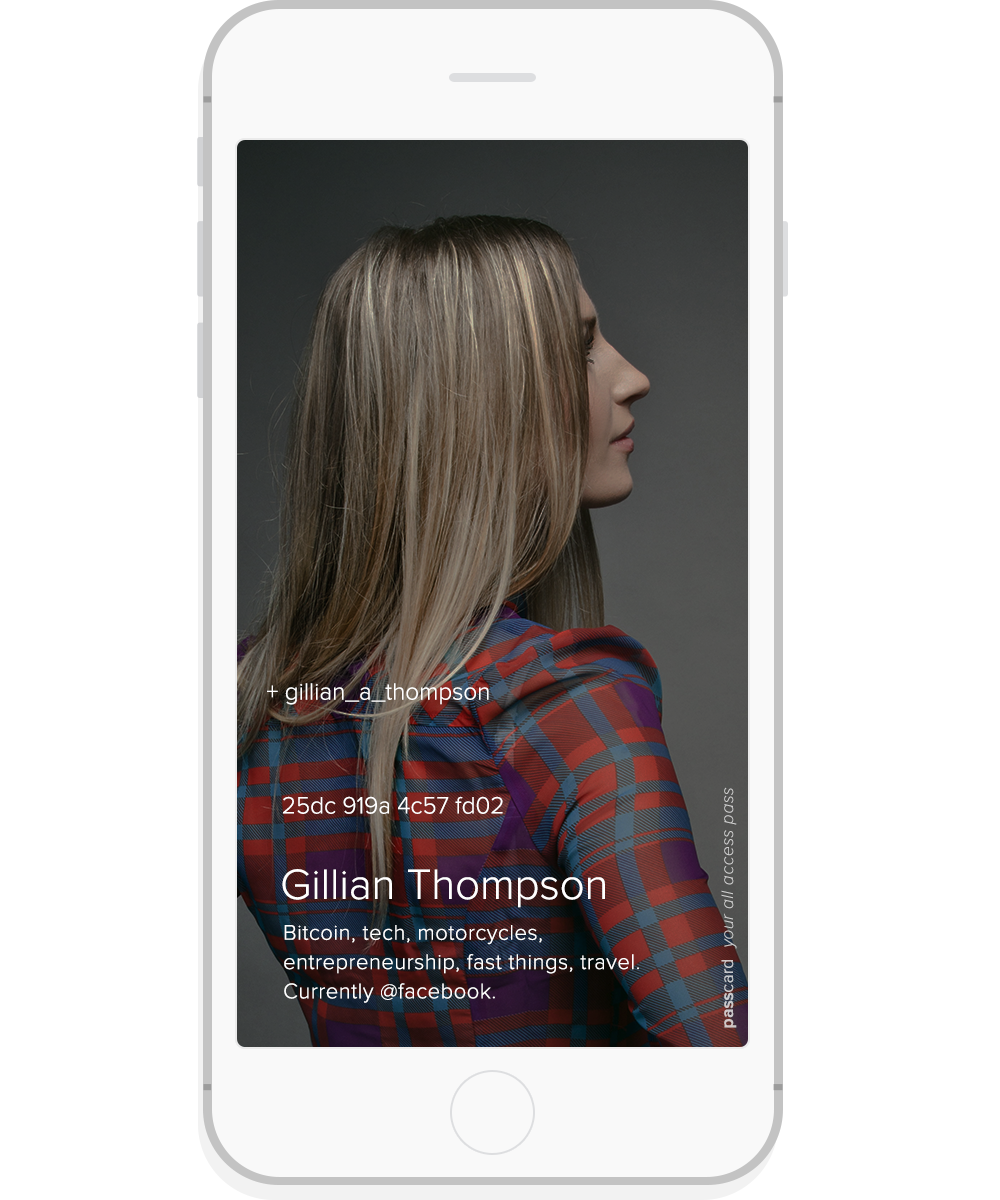
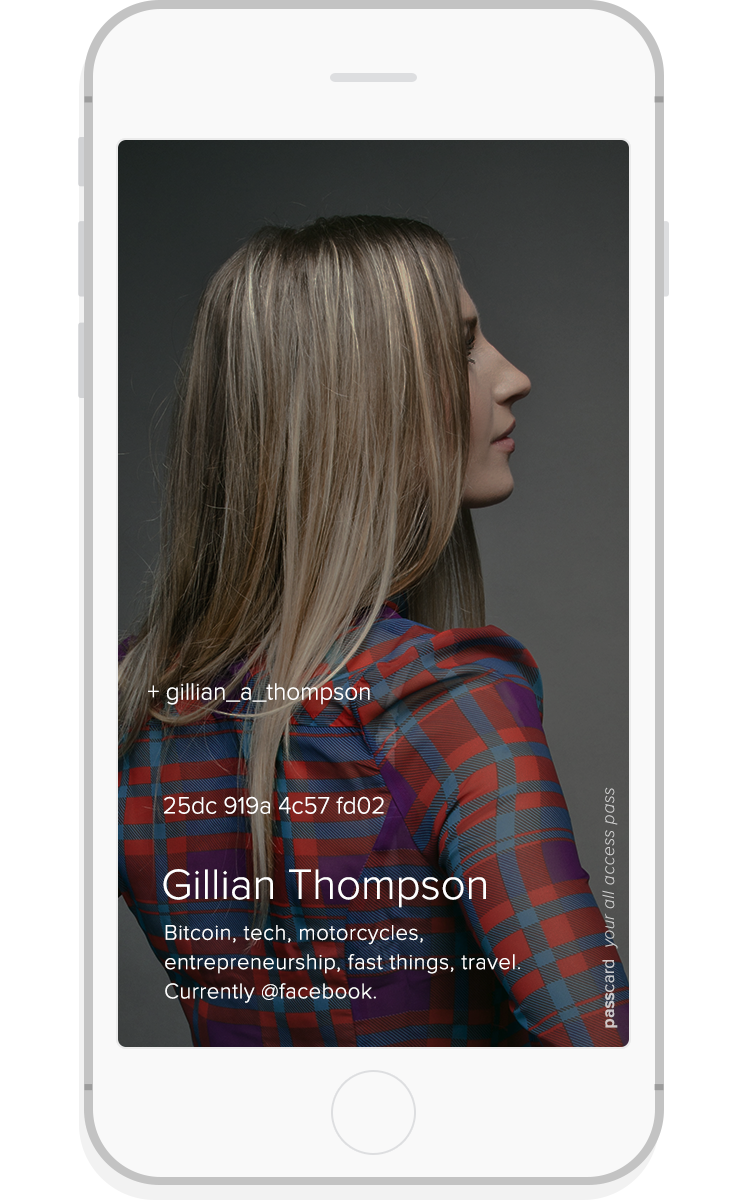
adjusting hero image size for testing on mobile

diff --git a/dist/styles/main.40e0ac4c.css b/dist/styles/main.40e0ac4c.css
@@ -1,0 +1,5 @@
+/*!
+ * Bootstrap v3.3.2 (http://getbootstrap.com)
+ * Copyright 2011-2015 Twitter, Inc.
+ * Licensed under MIT (https://github.com/twbs/bootstrap/blob/master/LICENSE)
+ *//*! normalize.css v3.0.2 | MIT License | git.io/normalize */.group,.group:after{display:block}.lead,h1,h2,h3,h4,h5{font-weight:100}body,h1,h2,h3,h4,h5{font-family:proxima-nova,sans-serif}.site-wrapper,.st-container{min-height:100%}::selection{background:rgba(255,255,255,.15);color:#fff}::-moz-selection{background:rgba(255,255,255,.15);color:#fff}.group:after{visibility:hidden;font-size:0;content:" ";clear:both;height:0}* html .group{height:1%}.docs-container{text-align:left}.markdown-section img{max-width:100%}a,a:focus,a:hover{color:rgba(255,255,255,1)}.lead{font-size:15px}h2{font-size:24px;line-height:34px;margin-top:20px;margin-bottom:20px}.color-blue,.color-ltblue{color:rgba(0,102,255,1)}.color-drkblue{color:rgba(1,68,145,1)}.btn-default{text-shadow:none;border:none;border-radius:3px;transition:all 25ms linear}.btn-lg{padding:12px 33px 10px;font-size:10px;font-weight:400;text-transform:uppercase;letter-spacing:.5px}.btn-default:active,.btn-default:focus,.btn-default:hover{border:none;background-color:rgba(255,255,255,.5);outline:0!important;box-shadow:none}.btn-default.color-blue:active,.btn-default.color-blue:focus,.btn-default.color-blue:hover{color:rgba(0,102,255,1)}.btn-default.color-drkblue:active,.btn-default.color-drkblue:focus,.btn-default.color-drkblue:hover{color:rgba(1,68,145,1)}.btn-transparent{padding:10px;font-size:9px;background-color:transparent;color:rgba(138,197,255,1)}.btn-transparent:active,.btn-transparent:focus,.btn-transparent:hover{border:none;background-color:transparent;color:rgba(255,255,255,1);outline:0!important;box-shadow:none}.btn-transparent,.btn-transparent:active,.btn-transparent:focus,.btn-transparent:hover{font-weight:300}.lead-margin{margin-bottom:12px}body,html{height:auto!important}body{color:#fff;text-align:center;font-weight:100!important}.site-wrapper{display:table;width:100%;height:100%;box-shadow:inset 0 0 100px rgba(0,0,0,.5)}.site-wrapper-inner{display:table-cell;vertical-align:top}.cover-container{margin-right:auto;margin-left:auto;height:100%}.inner{padding:20px}.githublink{position:absolute;top:15px;right:15px;border:0;width:18px;height:18px;fill:rgba(255,255,255,1)}.githublink:hover{fill:rgba(255,255,255,.5)}.no-csstransforms3d .st-pusher,.no-js .st-pusher{padding-left:0}.st-menu ul{margin-bottom:10px}.st-menu{width:256px;text-align:left;background:#1d1f20;background:linear-gradient(to bottom,#1d1f20 0,#404348 100%);filter:progid:DXImageTransform.Microsoft.gradient(startColorstr='#1d1f20', endColorstr='#404348', GradientType=0)}.st-menu ul li a:hover,.st-menu ul li:first-child a:focus{color:rgba(255,255,255,1);text-decoration:none;background-color:rgba(255,255,255,.1);transition:none}.st-menu ul li a,.st-menu ul li:first-child a{box-shadow:none;color:#fff;display:block;padding:10px 20px;text-transform:none;font-weight:200;letter-spacing:0;font-size:100%/1.4em}.st-menu h2{color:rgba(255,255,255,.75);font-size:17px;margin:10px 0}.st-effect-3.st-menu-open .st-pusher{-webkit-transform:translate3d(256px,0,0);transform:translate3d(256px,0,0)}.menu-section-list{padding:0;margin:10px 0!important;list-style:none}.menu-section{margin:25px 0}.menu a{color:#fff}.menu-header{border-bottom:1px solid #2a2d2f;padding:20px 0 20px 20px;background-size:32px}.menu-section-title{text-transform:uppercase;color:#85888d;font-weight:200;font-size:12px;letter-spacing:1px;padding:0 20px;margin:0}.menu-header-title{margin:0 0 0 10px}.twitter-hashtag-button{margin-left:20px}.jumbotron{margin-top:30px!important;padding:40px 25px;border-radius:6px;background-color:#F2F2F0;margin-bottom:300px!important;box-shadow:rgba(0,0,0,.1)0 0 25px}.jumbotron .lead{color:#343434;font-weight:300;letter-spacing:0}h1.passregistrar{color:#343434;font-weight:300!important;letter-spacing:0;font-size:24px}h2.feature a{font-weight:200;letter-spacing:0;font-size:20px;text-decoration:none}h3.feature a{font-weight:100;letter-spacing:0;font-size:14px;text-decoration:none}a.btn.btn-primary.btn-lg.btn-registrar{font-weight:500!important;display:block;margin:8px;background-color:#2c96ff;border-color:transparent}a.btn.btn-primary.btn-lg.btn-registrar:hover{background-color:#2378cc;border-color:transparent}.navbar-inverse .navbar-toggle,.navbar-inverse .navbar-toggle:active,.navbar-inverse .navbar-toggle:focus,.navbar-inverse .navbar-toggle:hover{float:left;padding:9px 11px;border-color:transparent;margin:7px 2px;background:0 0}.navbar-toggle .icon-bar{display:block;width:12px;height:1px;border-radius:1px;background-color:#fff}.starter-template{padding:40px 15px;text-align:center}.navbar-brand{font-size:16px;font-weight:300;padding-bottom:5px;margin-left:-53px}.component,.inverted{padding-top:60px;padding-bottom:40px}.col-centered{float:none;margin:15px auto}.navbar-inverse .navbar-nav>li>a{padding-top:16px;font-size:13px;color:rgba(255,255,255,1)}.navbar-inverse{background:0 0;border-color:transparent}.navbar-inverse .navbar-brand{color:rgba(255,255,255,1);float:none}.navbar-toggle .icon-bar+.icon-bar{margin-top:3px}.navbar-inverse .navbar-brand:focus,.navbar-inverse .navbar-brand:hover,.navbar-inverse .navbar-nav>li>a:focus,.navbar-inverse .navbar-nav>li>a:hover{color:rgba(255,255,255,.5)}.cover h1,.cover p{font-weight:100;margin-top:0}.masthead-brand{margin-top:10px;margin-bottom:10px}.masthead-nav>li{display:inline-block}.masthead-nav>li+li{margin-left:20px}.masthead-nav>li>a{padding-right:0;padding-left:0;font-size:16px;color:#fff;color:rgba(255,255,255,.75);border-bottom:2px solid transparent}.masthead-nav>li>a:focus,.masthead-nav>li>a:hover{background-color:transparent;border-bottom-color:#a9a9a9;border-bottom-color:rgba(255,255,255,.25)}.masthead-nav>.active>a,.masthead-nav>.active>a:focus,.masthead-nav>.active>a:hover{color:#fff;border-bottom-color:#fff}.conatainer-fluid.col-centered ul{list-style:none}.navbar{margin-bottom:0}.st-content{background:0 0}.featurette>img.feat-img{padding-left:10%;padding-right:10%}.feat-lft{background-color:rgba(38,125,255,1)}.feat-rgt{background-color:rgba(0,87,217,1)}.inverted{background-color:rgba(33,33,33,1)}.component{background-color:rgba(0,102,255,1)}h2.content{font-weight:100;letter-spacing:0;font-size:24px;margin-bottom:60px}.cover-heading{font-size:22px;margin-bottom:28px}.bs-docs-featurette{padding-top:40px;padding-bottom:40px;font-size:16px;line-height:1.5;text-align:center;background-color:rgba(38,125,255,1)}.bs-docs-featurette-title{margin-bottom:5px;font-size:30px}.feature-panel{margin:40px 0}.feature-panel>img{margin:0;padding:0 18%}.feature-panel>h3{margin-bottom:10px;display:block;font-size:1.17em}.works{margin-top:30px;margin-bottom:30px;padding:0 12%}.inner.cover{padding-bottom:0;padding-top:90px;margin-bottom:0;margin-top:-90px;background-color:rgba(0,102,255,1)}.solid{background-color:#3a73cd;color:#fff}.feature-action{background-color:rgba(1,68,145,1)}.action-title{margin-top:120px}.btn-action{margin-top:50px;margin-bottom:180px}img.arrow-down{width:12px;padding-bottom:13px}.btn-works img{margin-top:-21px}img.arrow-learn-more{padding-left:48%;padding-right:48%}.arrow-learn-more{margin-top:-18px!important;margin-bottom:25px!important}.img-re-constraint{max-width:90%}.wrap-mob-featdecentralized,.wrap-mob-featpassmini,.wrap-mob-hero{max-width:400px}.wrap-mob-hero{margin-bottom:50px;margin-left:auto;margin-right:auto}.mastfoot{position:relative;color:rgba(255,255,255,.5);font-size:12px;height:100px;width:100%;background-color:#222}@media (min-width:768px){.masthead-brand{float:left}.masthead-nav{float:right}.jumbotron{width:404px;margin-top:100px!important}.masthead{position:fixed;top:0}.mastfoot{position:relative}.cover-container,.mastfoot,.masthead{width:100%}.navbar-inverse .navbar-brand{float:left}.navbar-text{float:left;margin:18px 35px 15px 0}.navbar-inverse .navbar-toggle,.navbar-inverse .navbar-toggle:active,.navbar-inverse .navbar-toggle:focus,.navbar-inverse .navbar-toggle:hover{float:left;display:block;padding:9px 11px;border-color:transparent;margin:20px 10px;background:0 0}.container-fluid>.navbar-collapse,.container-fluid>.navbar-header,.container>.navbar-collapse,.container>.navbar-header{margin-left:-15px;margin-right:20px}.col-centered{margin:10px auto}.cover{padding:30px 20px 100px;margin-top:0;margin-bottom:0}.lead{margin-bottom:50px}}@media (min-width:992px){.cover-heading{font-size:2.5em}.mastfoot{position:relative}}.ng-cloak,[ng-cloak],[ng\:cloak]{display:none!important}

diff --git a/dist/index.html b/dist/index.html
@@ -1,4 +1,4 @@
-<!doctype html> <html class="no-js"> <head> <base href="/"> <meta charset="utf-8"> <meta http-equiv="X-UA-Compatible" content="IE=edge,chrome=1"> <meta name="description" content="Passcard login id identity"> <meta name="viewport" content="width=device-width,initial-scale=1,minimal-ui"> <title>Passcard</title> <!-- Apple Device Icons --> <link rel="apple-touch-icon" sizes="29x29" href="/images/passcard-apple-touch-29.png"> <link rel="apple-touch-icon" sizes="40x40" href="/images/passcard-apple-touch-40.png"> <link rel="apple-touch-icon" sizes="58x58" href="/images/passcard-apple-touch-58.png"> <link rel="apple-touch-icon" sizes="60x60" href="/images/passcard-apple-touch-60.png"> <link rel="apple-touch-icon" sizes="76x76" href="/images/passcard-apple-touch-76.png"> <link rel="apple-touch-icon" sizes="80x80" href="/images/passcard-apple-touch-80.png"> <link rel="apple-touch-icon" sizes="120x120" href="/images/passcard-apple-touch-120.png"> <link rel="apple-touch-icon" sizes="152x152" href="/images/passcard-apple-touch-152.png"> <link rel="shortcut icon" href="/favicon.ico?v=2"> <!-- Place favicon.ico and apple-touch-icon.png in the root directory --> <link rel="stylesheet" href="styles/vendor.a4bfe288.css"> <link rel="stylesheet" href="styles/main.a8818eb7.css">  <body ng-app="digitalpassportApp" ng-cloak> <!--[if lt IE 7]>
+<!doctype html> <html class="no-js"> <head> <base href="/"> <meta charset="utf-8"> <meta http-equiv="X-UA-Compatible" content="IE=edge,chrome=1"> <meta name="description" content="Passcard login id identity"> <meta name="viewport" content="width=device-width,initial-scale=1,minimal-ui"> <title>Passcard</title> <!-- Apple Device Icons --> <link rel="apple-touch-icon" sizes="29x29" href="/images/passcard-apple-touch-29.png"> <link rel="apple-touch-icon" sizes="40x40" href="/images/passcard-apple-touch-40.png"> <link rel="apple-touch-icon" sizes="58x58" href="/images/passcard-apple-touch-58.png"> <link rel="apple-touch-icon" sizes="60x60" href="/images/passcard-apple-touch-60.png"> <link rel="apple-touch-icon" sizes="76x76" href="/images/passcard-apple-touch-76.png"> <link rel="apple-touch-icon" sizes="80x80" href="/images/passcard-apple-touch-80.png"> <link rel="apple-touch-icon" sizes="120x120" href="/images/passcard-apple-touch-120.png"> <link rel="apple-touch-icon" sizes="152x152" href="/images/passcard-apple-touch-152.png"> <link rel="shortcut icon" href="/favicon.ico?v=2"> <!-- Place favicon.ico and apple-touch-icon.png in the root directory --> <link rel="stylesheet" href="styles/vendor.a4bfe288.css"> <link rel="stylesheet" href="styles/main.40e0ac4c.css">  <body ng-app="digitalpassportApp" ng-cloak> <!--[if lt IE 7]>
       <p class="browsehappy">You are using an <strong>outdated</strong> browser. Please <a href="http://browsehappy.com/">upgrade your browser</a> to improve your experience.</p>
     <![endif]--> <div id="st-container" class="st-container"> <div class="cover-container"> <!-- Sidebar-transition "Push effect 3" is under the push wrapper --> <div class="st-pusher"> <!-- Sidebar --> <nav id="menu3" class="st-menu st-effect-3 menu slideout-menu" ng-controller="NavCtrl"> <a href="/"> <header class="menu-header"> <i class="fa fa-connectdevelop"></i><span class="menu-header-title">Home</span> </header> </a> <section class="menu-section"> <h3 class="menu-section-title">Consumers</h3> <ul class="menu-section-list"> <li> <a href="/registrars">Choose a registrar</a> </li> <li> <a href="/#learnmore" ng-click="scroll()">Learn more</a> </li> </ul> </section> <section class="menu-section"> <h3 class="menu-section-title">Docs</h3> <ul class="menu-section-list"> <li><a href="/docs/Home">Developer Overview</a></li> <li><a href="/docs/Protocol-Design">Protocol Design</a></li> <li><a href="/docs/FAQ">FAQ</a></li> <li><a href="https://github.com/openname/specifications/issues" target="_blank">Make a suggestion</a></li> </ul> </section> <section class="menu-section"> <ul class="menu-section-list"> <a href="https://twitter.com/intent/tweet?button_hashtag=passcard&text=Verify%20your%20identity.%20Get%20your%20passcard" class="twitter-hashtag-button" data-size="large" data-url="http://passcard.info">Tweet #passcard</a> <script>!function(d,s,id){var js,fjs=d.getElementsByTagName(s)[0],p=/^http:/.test(d.location)?'http':'https';if(!d.getElementById(id)){js=d.createElement(s);js.id=id;js.src=p+'://platform.twitter.com/widgets.js';fjs.parentNode.insertBefore(js,fjs);}}(document, 'script', 'twitter-wjs');</script> </ul> </section> </nav> <!-- / Sidebar --> <div class="st-content"><!--  ...  This is the wrapper for the content  ...  --> <div class="st-content-inner"><!--  ...  Extra div for emulating position:fixed of the menu  ...  --> <!-- Top Navigation --> <div class="main clearfix" id="main"> <!-- / Navbar --> <nav class="navbar navbar-inverse navbar-top"> <div class="container-fluid"> <!--  ...  Brand and toggle get grouped for better mobile display  ...  --> <div id="st-trigger-effects" class="navbar-header"> <button type="button" class="navbar-toggle" data-effect="st-effect-3"> <span class="icon-bar"></span> <span class="icon-bar"></span> <span class="icon-bar"></span> </button> </div> <!--<div class="container-fluid col-centered">
                       <ul>

diff --git a/app/styles/main.css b/app/styles/main.css
@@ -158,7 +158,7 @@ div.container.col-xs-11.col-centered {}
 
 
 /* -- Responsive max-width wrappers -- */
-.wrap-mob-hero {max-width: 550px; margin-bottom:50px; margin-left:auto; margin-right:auto;}
+.wrap-mob-hero {max-width: 400px; margin-bottom:50px; margin-left:auto; margin-right:auto;}
 .wrap-mob-featpassmini {max-width: 400px;}
 .wrap-mob-featdecentralized {max-width: 400px;}
 
